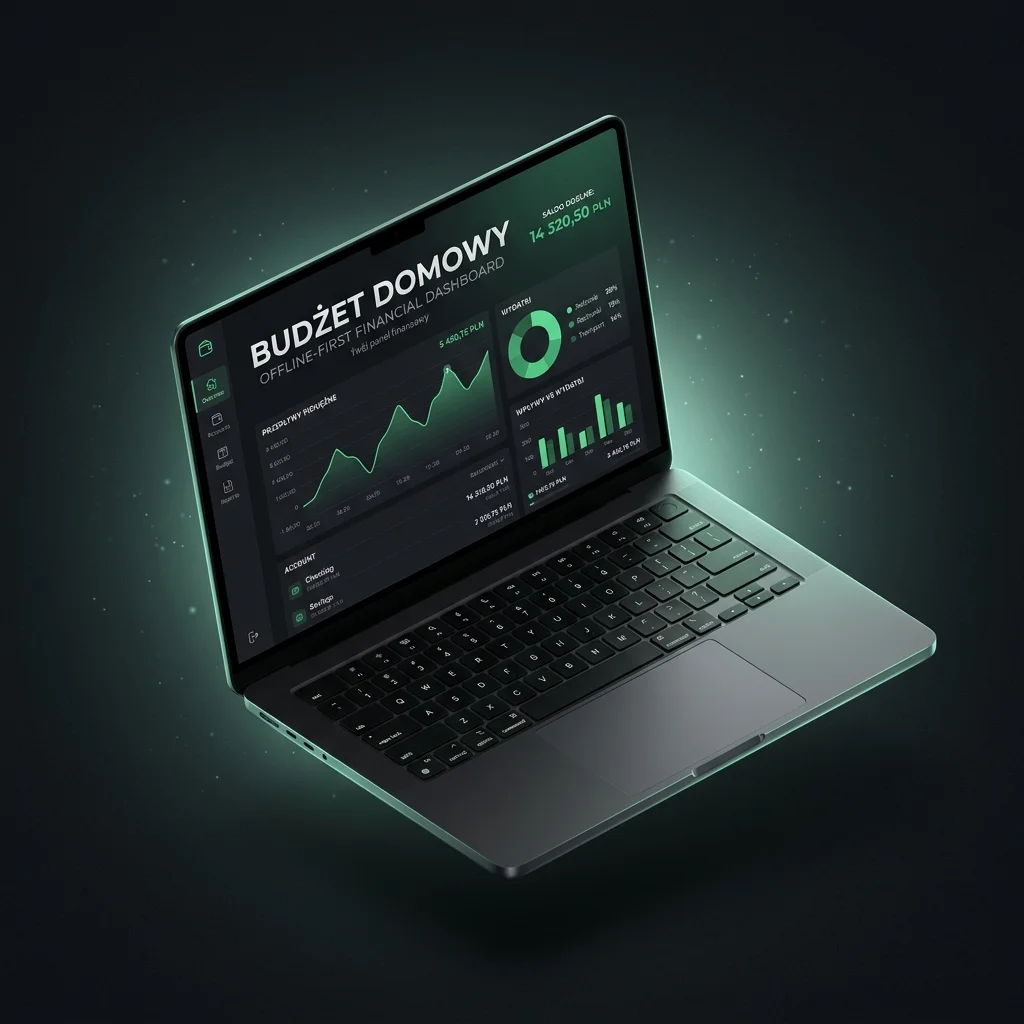
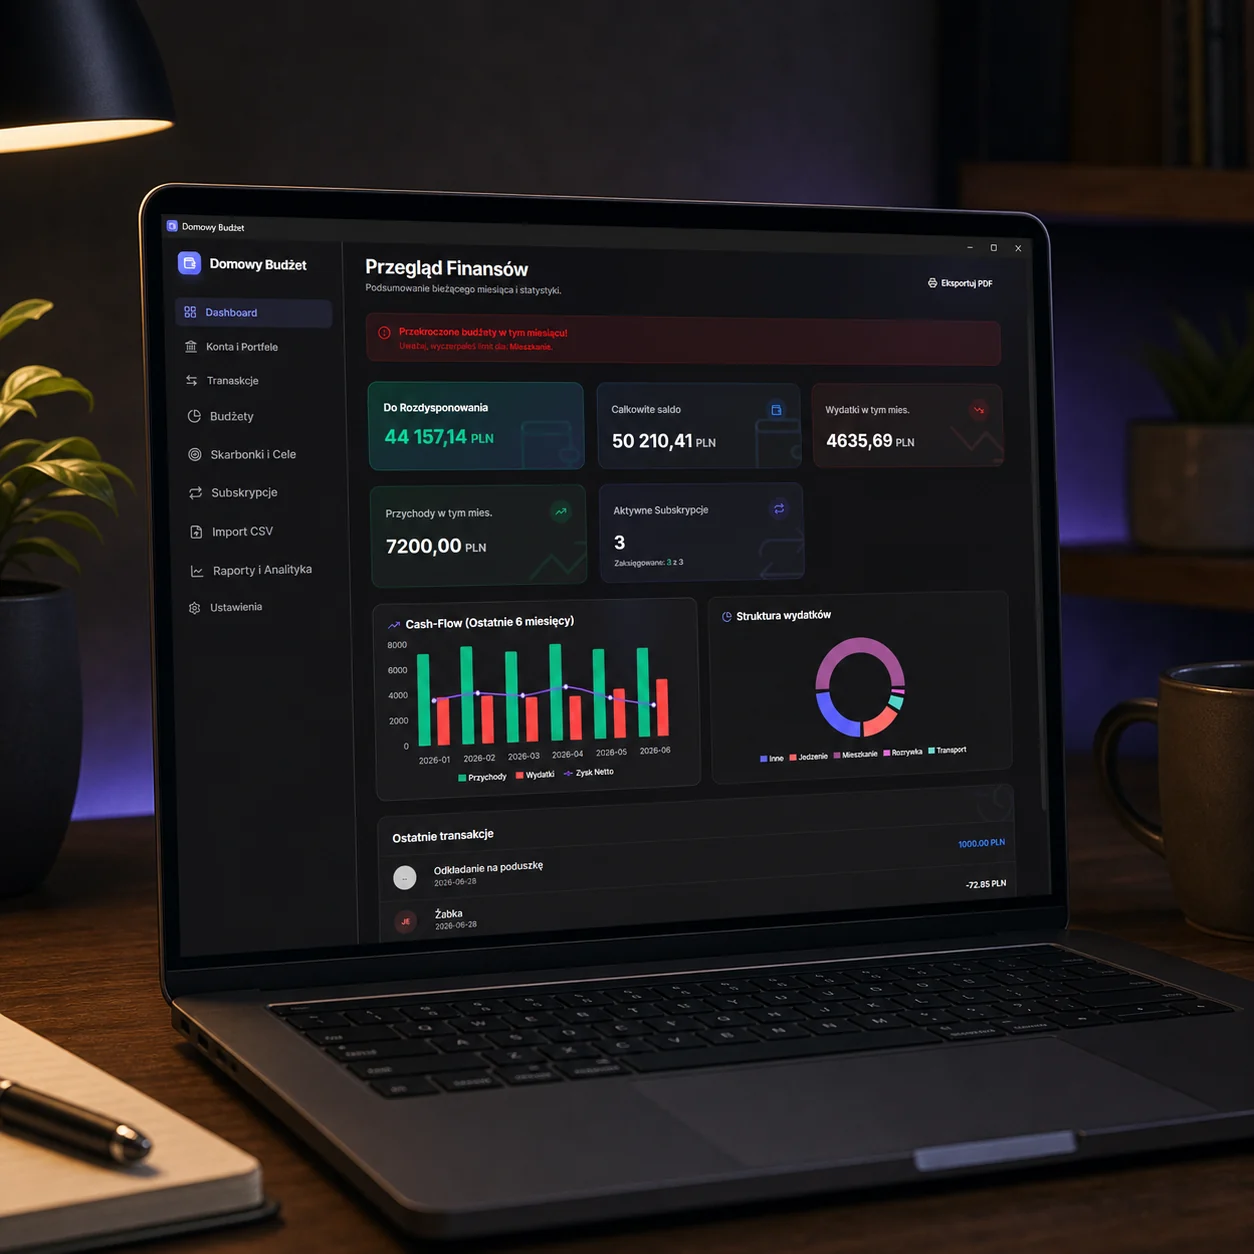
feat(projects): complete refreshed mockup collection

diff --git a/CHANGELOG.md b/CHANGELOG.md
@@ -8,12 +8,13 @@ stosują [Semantic Versioning](https://semver.org/).
 
 ### Changed
 
-- Dwadzieścia jeden mockupów projektów — APK://GENESIS, BRIXCORE, Beyond the Door,
+- Dwadzieścia trzy mockupy projektów — APK://GENESIS, BRIXCORE, Beyond the Door,
   CAN//FORM, EDM Music Festival, THE VAULT, Skin Elixir, APKMASON ARC,
   FRUIT ENERGY, Sfera, Evolution of the Phone, THE IRIS, Pure Form, From
   Sand to Silicon, Inside the Internet, SPARK, ASCENT, ORIGIN, Poznaj AI,
-  VIBE//SHIFT i PCVerse — zastąpiono kadrami przygotowanymi na podstawie
-  aktualnych assetów źródłowych i zapisanymi jako zoptymalizowane WebP; THE VAULT
+  VIBE//SHIFT, PCVerse, Budżet Domowy i Mechanika Czasu — zastąpiono kadrami
+  przygotowanymi na podstawie aktualnych assetów źródłowych i zapisanymi jako
+  zoptymalizowane WebP; THE VAULT
   pokazuje bieżącą, jednoczęściową płytę drzwi otwieraną w prawo, a EDM
   aktualną scenografię i identyfikację „BEYOND THE DROP.”,
 - „VOID DROP” zastąpił „Skin Elixir” na szóstej pozycji wyróżnionej
